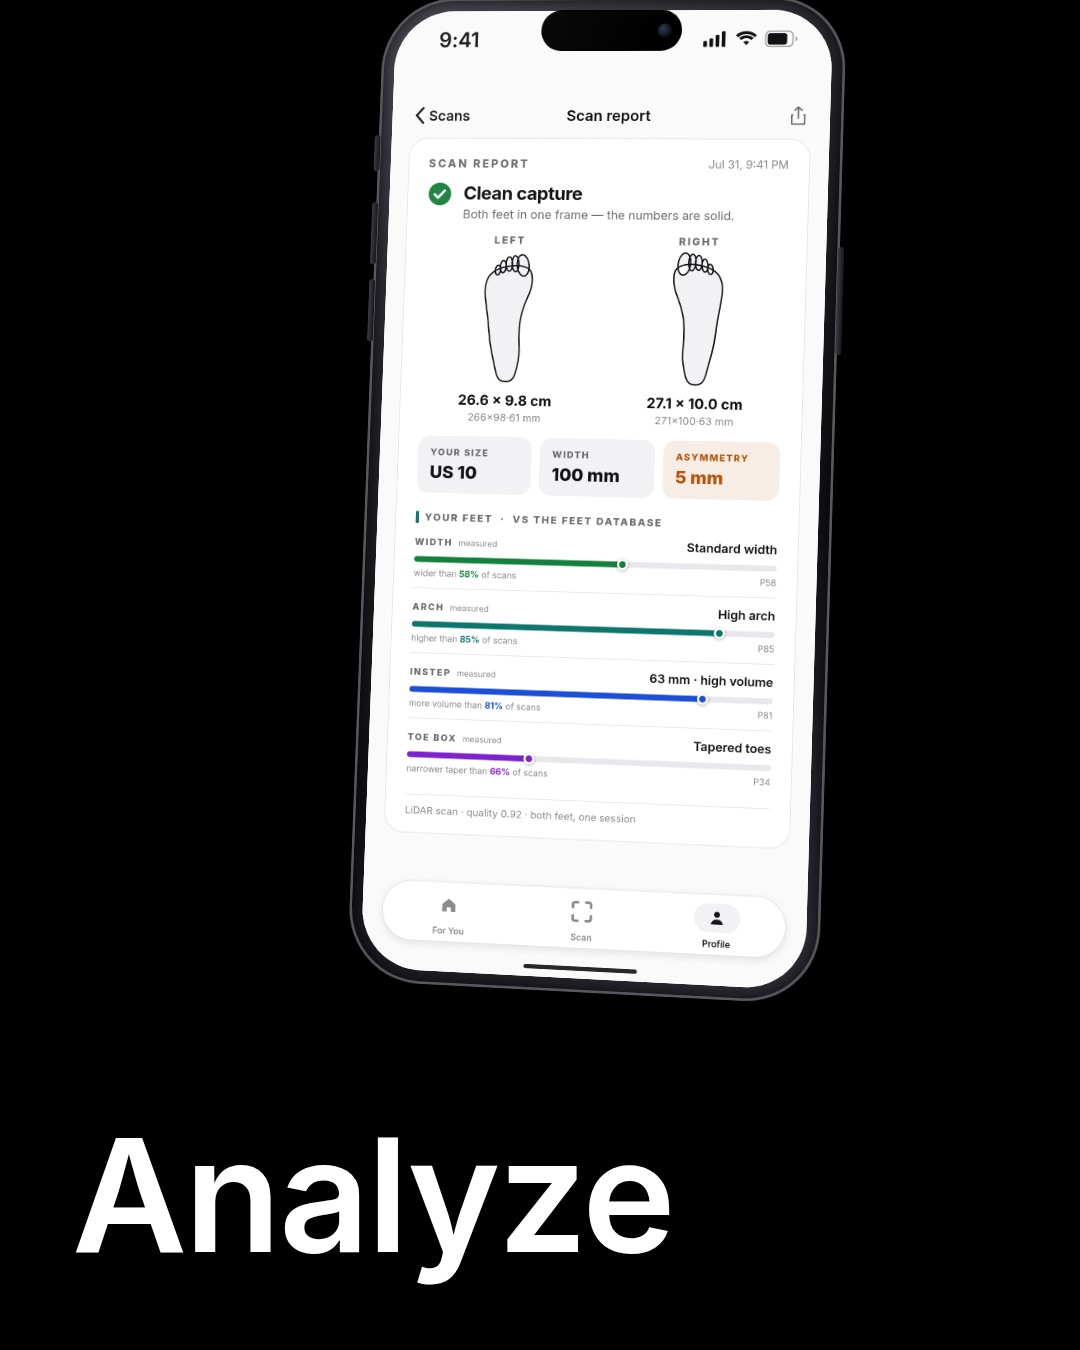
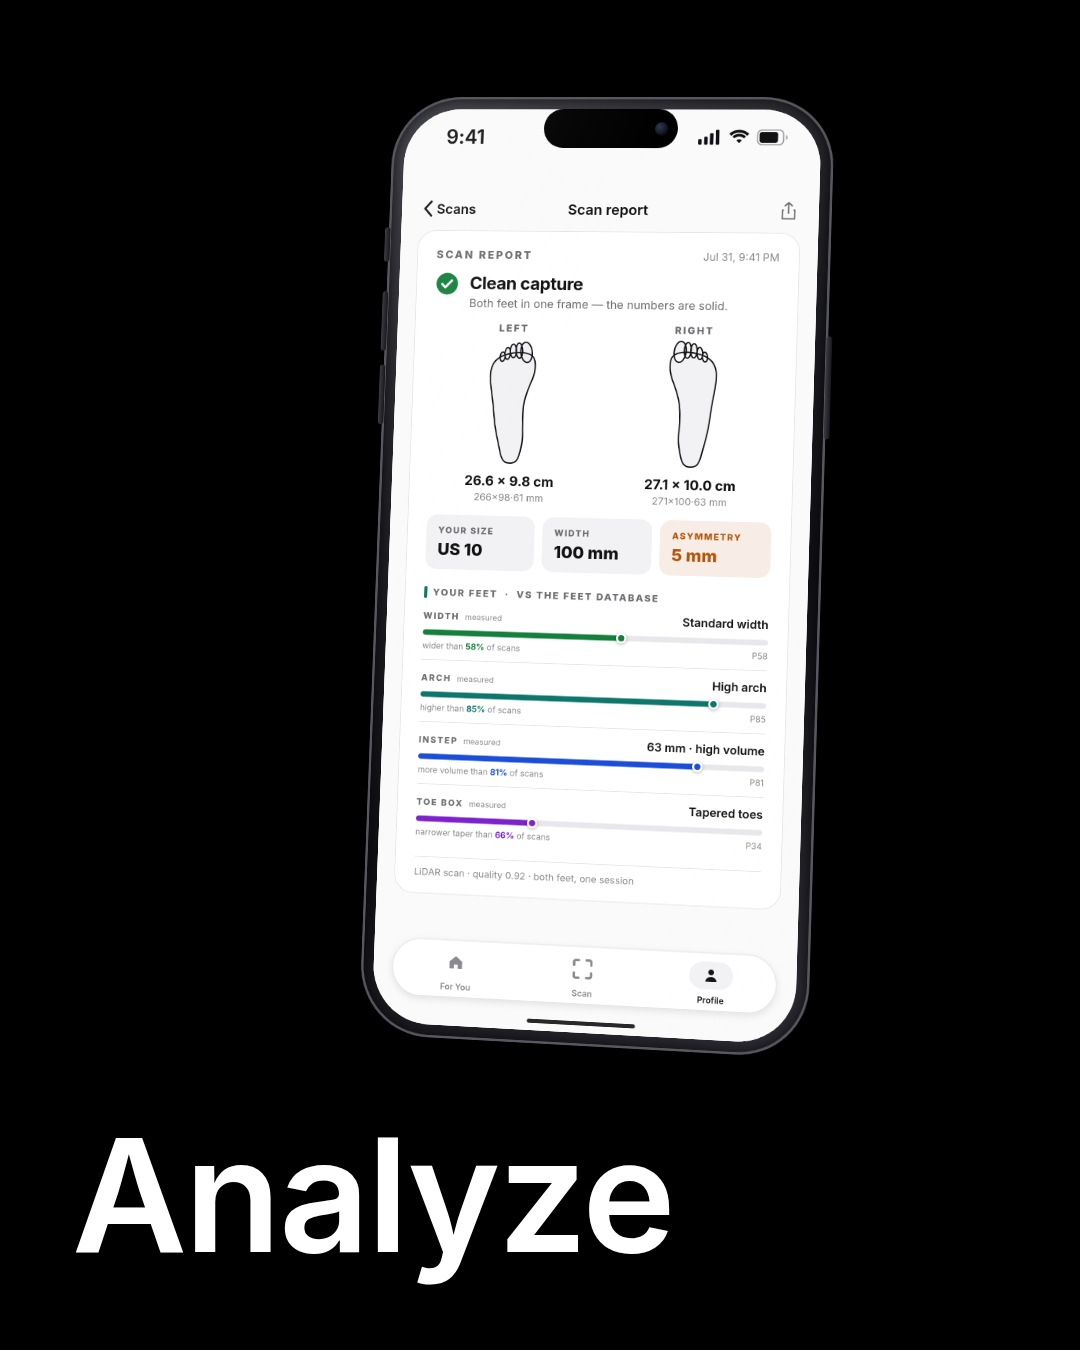
pins: whole phone inside the frame on all three
02-analyze was clipping at the top (its -64px offset plus scale). Device
scale eased to 0.80, the offset zeroed, and the stage nudged down —
measured margins are now 82-97px top, 230-248px right, nothing crossing
into the caption band. Prompts get the matching requirement: entire
device visible with a 5% black margin on every side, nothing cropped or
touching a border.

Claude-Session: https://claude.ai/code/session_01DF12MeCQsBsp8TmeobhWMm

Changed region(s): [[0.3056, 0.0, 0.7944, 0.8089], [0.6417, 0.5911, 0.7028, 0.6222]]

diff --git a/_tools/pins-scene.css b/_tools/pins-scene.css
@@ -42,12 +42,12 @@ html, body {
 .device {
   position: absolute;
   width: 560px; height: 1188px;
-  left: 50%; top: 41%;
+  left: 50%; top: 42%;
   margin: -594px 0 0 -280px;      /* center, then nudge via --tx/--ty */
   transform:
     translate(var(--tx, 0px), var(--ty, 0px))
     rotateX(var(--rx, 0deg)) rotateY(var(--ry, 0deg)) rotateZ(var(--rz, 0deg))
-    scale(var(--s, 0.84));
+    scale(var(--s, 0.80));
   border-radius: 88px;
   /* titanium body: edge catch-lights top-left, falloff bottom-right */
   background: linear-gradient(145deg, #4A4A52 0%, #232329 30%, #101014 62%, #2E2E36 100%);

diff --git a/pins/NANOBANANA.md b/pins/NANOBANANA.md
@@ -38,10 +38,12 @@ Four requirements, and one of them can't come from the model:
 > natural sensor grain across the whole frame. Indistinguishable from a real
 > photo taken by a product photographer.
 >
-> The phone is fully contained in the upper three quarters of the frame — its
-> bottom edge, including any reflection, ends well above the lower quarter.
-> The bottom quarter of the image is pure flat black, empty, reserved for the
-> caption word; nothing enters it.
+> The ENTIRE phone is visible inside the frame — the whole device from its top
+> edge to its bottom edge, both side edges included, with a clear black margin
+> of at least 5% of the image on every side. Nothing about the phone is
+> cropped, cut off, or touching any border of the image. It is fully contained
+> in the upper three quarters; the bottom quarter is pure flat black, empty,
+> reserved for the caption word.
 >
 > The attached screenshot is the phone's screen. Keep every UI element on it
 > exactly as it is — the status bar, the "LiDAR · BOTH FEET" pill, the "Hold
@@ -94,10 +96,12 @@ Four requirements, and one of them can't come from the model:
 > natural sensor grain across the whole frame. Indistinguishable from a real
 > photo taken by a product photographer.
 >
-> The phone is fully contained in the upper three quarters of the frame — its
-> bottom edge, including any reflection, ends well above the lower quarter.
-> The bottom quarter of the image is pure flat black, empty, reserved for the
-> caption word; nothing enters it.
+> The ENTIRE phone is visible inside the frame — the whole device from its top
+> edge to its bottom edge, both side edges included, with a clear black margin
+> of at least 5% of the image on every side. Nothing about the phone is
+> cropped, cut off, or touching any border of the image. It is fully contained
+> in the upper three quarters; the bottom quarter is pure flat black, empty,
+> reserved for the caption word.
 >
 > The attached screenshot is the phone's screen. Place it on the display
 > exactly as it is — every number, label, gauge bar, foot outline and word
@@ -137,10 +141,12 @@ Four requirements, and one of them can't come from the model:
 > natural sensor grain across the whole frame. Indistinguishable from a real
 > photo taken by a product photographer.
 >
-> The phone is fully contained in the upper three quarters of the frame — its
-> bottom edge, including any reflection, ends well above the lower quarter.
-> The bottom quarter of the image is pure flat black, empty, reserved for the
-> caption word; nothing enters it.
+> The ENTIRE phone is visible inside the frame — the whole device from its top
+> edge to its bottom edge, both side edges included, with a clear black margin
+> of at least 5% of the image on every side. Nothing about the phone is
+> cropped, cut off, or touching any border of the image. It is fully contained
+> in the upper three quarters; the bottom quarter is pure flat black, empty,
+> reserved for the caption word.
 >
 > The attached screenshot is the phone's screen. Place it on the display
 > exactly as it is — every shoe name, brand line, row number, size line and
@@ -167,15 +173,17 @@ Four requirements, and one of them can't come from the model:
 
 ## Checking a result
 
-1. The word: complete, bottom-left, sitting clear of the phone with black
+1. The whole phone visible — no edge of the device touching or crossing any
+   border of the image.
+2. The word: complete, bottom-left, sitting clear of the phone with black
    space between them — no overlap. Medium weight (not heavy), same letter
    height across all three, no underline, no sparkle/star glyph.
-2. Background truly black, no glow or shadow.
-3. Screen text matches the attachment — brand lines (NIKE not MIKE, JORDAN
+3. Background truly black, no glow or shadow.
+4. Screen text matches the attachment — brand lines (NIKE not MIKE, JORDAN
    not JERDAN), "½ size up", "US 10", the fit percentages.
-4. Scan only: the feet are a real photograph — skin texture on the shins,
+5. Scan only: the feet are a real photograph — skin texture on the shins,
    real knit weave, real wood grain. If they look drawn, re-roll.
-5. Phone reads as a photo: metal grain, edge highlight, slight focus falloff.
+6. Phone reads as a photo: metal grain, edge highlight, slight focus falloff.
 
 Anything off → fresh chat, same prompt, re-roll. Typography is never a
 reason to re-roll — that comes from the stamp.
